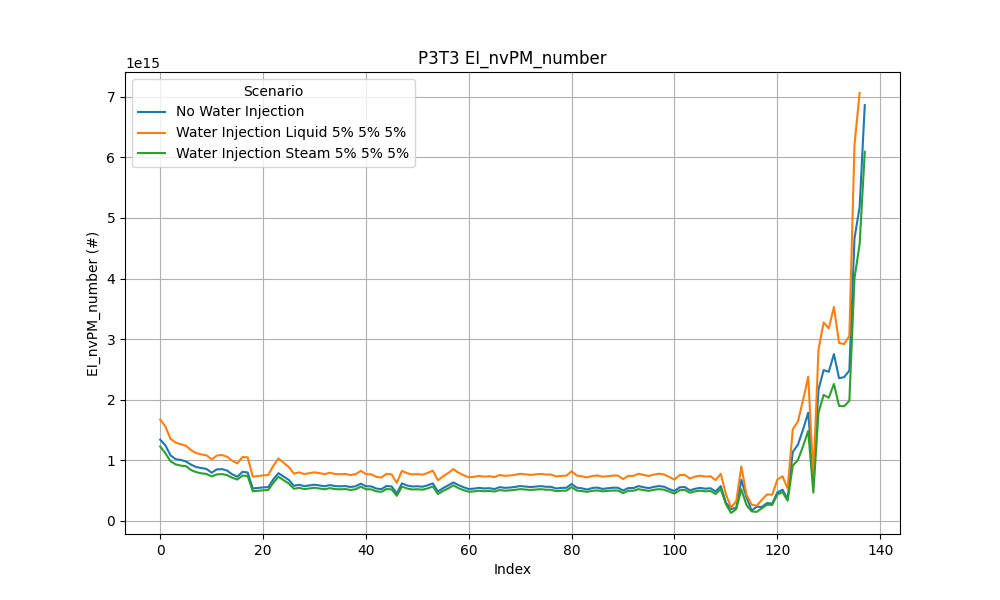
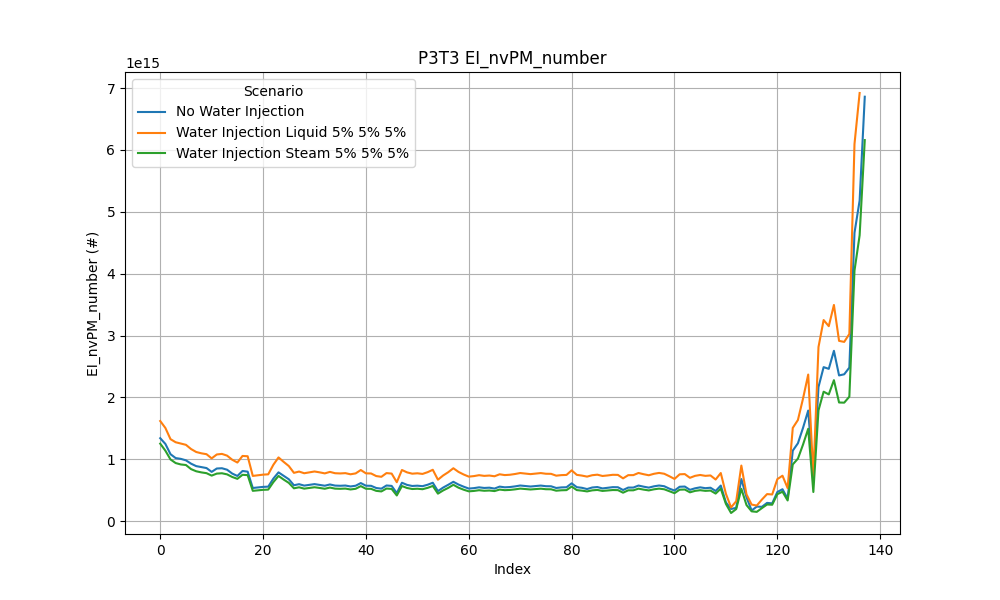
more result plots and add Xue nox correlation

diff --git a/verification_emissions.py b/verification_emissions.py
@@ -11,7 +11,7 @@ import matplotlib.colors as mcolors
 import scipy
 from emission_index import p3t3_nox, p3t3_nvpm, p3t3_nvpm_mass, meem_nvpm
 from emission_index import NOx_correlation_de_boer, NOx_correlation_kypriandis_optimized_tf, NOx_correlation_kaiser_optimized_tf
-from emission_index import p3t3_nvpm_meem, p3t3_nvpm_meem_mass
+from emission_index import p3t3_nvpm_meem, p3t3_nvpm_meem_mass, p3t3_nox_xue
 # from piano import altitude_ft_sla
 import sys
 import pickle
@@ -283,7 +283,7 @@ df['ei_co2_optimistic'] = ei_co2_optimistic
 
 if water_injection[0] != 0 or water_injection[1] != 0 or water_injection[2] != 0:
     df_water = pd.read_csv(f'results/{flight}/{flight}_model_GTF2035_SAF_{SAF}_aircraft_{aircraft}_WAR_0_0_0.csv')
-    df_water['W3_no_water_injection'] = df_water['W3']
+    df_water['W3_no_water_injection'] = df_water['W3_no_specific_humid']
     df['W3_no_water_injection'] = df_water['W3_no_water_injection']
     df['water_injection_kg_s'] = df['W3_no_water_injection'] * (df['WAR']/100 - df['specific_humidity'])
     df['water_injection_kg_s'] = df['water_injection_kg_s'].clip(lower=0) #no negative water injection if 0 WAR is present
@@ -376,9 +376,9 @@ df_gsp = pd.read_csv(input_csv_path)  # Load the original DataFrame
 df_gsp = df_gsp.merge(results_df, on='index', how='left')
 
 print(df_gsp)
-df_gsp['W3'] = df_gsp['W3'] / (1+df_gsp['specific_humidity']) #pure air, without water from ambience
+df_gsp['W3_no_specific_humid'] = df_gsp['W3'] / (1+df_gsp['specific_humidity']) #pure air, without water from ambience
 
-df_gsp['WAR_gsp'] = ((df_gsp['water_injection_kg_s'] + df_gsp['specific_humidity']*df_gsp['W3']) / df_gsp['W3'])*100 #%
+df_gsp['WAR_gsp'] = ((df_gsp['water_injection_kg_s'] + df_gsp['specific_humidity']*df_gsp['W3_no_specific_humid']) / df_gsp['W3_no_specific_humid'])*100 #%
 
 """NOx p3t3"""
 df_gsp['EI_nox_p3t3'] = df_gsp.apply(
@@ -389,6 +389,19 @@ df_gsp['EI_nox_p3t3'] = df_gsp.apply(
         interp_func_pt3,
         row['specific_humidity'],
         row['WAR_gsp']
+    ),
+    axis=1
+)
+"""NOx P3T3 Xue water injection"""
+df_gsp['EI_nox_p3t3_xue'] = df_gsp.apply(
+    lambda row: p3t3_nox_xue(
+        row['PT3'],
+        row['TT3'],
+        interp_func_far,
+        interp_func_pt3,
+        row['specific_humidity'],
+        row['water_injection_kg_s'],
+        row['W3']
     ),
     axis=1
 )

diff --git a/results_saf.py b/results_saf.py
@@ -9,14 +9,18 @@ engine_model = 'GTF'  # Replace with your engine model
 SAF_values = [0, 20, 100]  # List of SAF configurations
 nvPM_number_data = {}  # To store data for plotting
 nvPM_mass_data = {}
+fuel_flow_gsp_data = {}
+nox_p3t3_data = {}
 # Loop through SAF values and read corresponding files
 for SAF in SAF_values:
-    file_name = f'results/{flight}_model_{engine_model}_SAF_{SAF}.csv'
+    file_name = f'results/{flight}/{flight}_model_{engine_model}_SAF_{SAF}_aircraft_A20N_full_WAR_0_0_0.csv'
     try:
         # Read the CSV file
         df = pd.read_csv(file_name)
 
         # Extract the nvPM_p3t3_meem column and store it
+        fuel_flow_gsp_data[SAF] = df['fuel_flow_gsp']
+        nox_p3t3_data[SAF] = df['EI_nox_p3t3']
         nvPM_number_data[SAF] = df['EI_nvpm_number_p3t3_meem']
         nvPM_mass_data[SAF] = df['EI_nvpm_mass_p3t3_meem']
 
@@ -35,7 +39,7 @@ plt.ylabel("EI_nvpm_number")
 plt.title("P3T3-MEEM nvPM number for different SAF blends")
 plt.legend(title="SAF blends")
 plt.grid()
-plt.savefig(f'figures/{flight}/EI_nvpm_number_SAF.png', format='png')
+plt.savefig(f'figures/{flight}/saf_effect/EI_nvpm_number_SAF.png', format='png')
 
 plt.figure(figsize=(10, 6))
 for SAF, nvPM_mass in nvPM_mass_data.items():
@@ -46,4 +50,26 @@ plt.ylabel("EI_nvpm_mass")
 plt.title("P3T3-MEEM nvPM mass for different SAF blends")
 plt.legend(title="SAF blends")
 plt.grid()
-plt.savefig(f'figures/{flight}/EI_nvpm_mass_SAF.png', format='png')
+plt.savefig(f'figures/{flight}/saf_effect/EI_nvpm_mass_SAF.png', format='png')
+
+plt.figure(figsize=(10, 6))
+for SAF, fuel_flow in fuel_flow_gsp_data.items():
+    plt.plot(fuel_flow, label=f"SAF {SAF}%")
+
+plt.xlabel("Index")  # Or replace "Index" with a relevant x-axis label if needed
+plt.ylabel("Fuel flow [kg/s]")
+plt.title("Fuel flow for different SAF blends")
+plt.legend(title="SAF")
+plt.grid()
+plt.savefig(f'figures/{flight}/saf_effect/fuel_flow_saf.png', format='png')
+
+plt.figure(figsize=(10, 6))
+for SAF, nox in nox_p3t3_data.items():
+    plt.plot(nox, label=f"SAF {SAF}%")
+
+plt.xlabel("Index")  # Or replace "Index" with a relevant x-axis label if needed
+plt.ylabel("EI_NOx")
+plt.title("P3T3 EI_NOx for different SAF blends")
+plt.legend(title="SAF")
+plt.grid()
+plt.savefig(f'figures/{flight}/saf_effect/EI_nox_saf.png', format='png')

diff --git a/emission_index.py b/emission_index.py
@@ -35,6 +35,41 @@ def p3t3_nox(PT3_inflight, TT3_inflight, interp_func_far, interp_func_pt3, speci
 
     return result
 
+def p3t3_nox_xue(PT3_inflight, TT3_inflight, interp_func_far, interp_func_pt3, specific_humidity, W_injected, W3):
+    """
+    p3t3 method to predict ei_nox for the state of the art and 2035 PW1127G engine
+    can be used for both saf and kerosene, make sure to implement the correct interp_func
+
+    Args:
+        PT3_inflight (float): Inflight PT3 value.
+        TT3_inflight (float): Inflight TT3 value.
+        FAR_inflight (float): Inflight FAR value.
+        interp_func_far (function): Interpolation function far sls graph.
+        interp_func_pt3 (function): Interpolation function pt3 sls graph.
+
+    Returns:
+        float: EI_NOx at this point in flight
+    """
+
+    tolerance = 0.01  # 1% tolerance
+    far_sls = interp_func_far(TT3_inflight)
+    pt3_sls = interp_func_pt3(TT3_inflight)
+    if W_injected == 0:
+        print('no wi correction, just humidity')
+        # print(far_sls)
+        # print(pt3_sls)
+        # V2
+        ei_nox_sls = 0.8699*pt3_sls**0.0765*np.exp(0.0024*TT3_inflight)*2.01**(60*far_sls)
+        # print(ei_nox_sls)
+        result = ei_nox_sls*(PT3_inflight/pt3_sls)**0.3*np.exp(19*(0.006344-specific_humidity))
+    elif W_injected != 0:
+        war = W_injected / (W_injected + W3)
+        ei_nox_sls = 0.8699 * pt3_sls ** 0.0765 * np.exp(0.0024 * TT3_inflight) * 2.01 ** (60 * far_sls)
+        relative_nox = 1e-6 * war**6 - 6e-5 * war**5 + 1.2e-3 * war**4 - 1.26e-2 * war**3 + 7.7e-2 * war**2 - 0.3337 * war + 1
+        result = ei_nox_sls * (PT3_inflight / pt3_sls) ** 0.3 * np.exp(19*(0.006344-specific_humidity)) * relative_nox
+
+    return result
+
 def p3t3_nox_wi(PT3_inflight, TT3_inflight, interp_func_far, interp_func_pt3, war):
     """
     p3t3 method to predict ei_nox for the state of the art and 2035 PW1127G engine

diff --git a/results_future.py b/results_future.py
@@ -13,7 +13,7 @@ nvPM_number_data = {}  # To store data for plotting
 nvPM_mass_data = {}
 # Loop through SAF values and read corresponding files
 for engine in engine_model:
-    file_name = f'results/{flight}_model_{engine}_SAF_{SAF}.csv'
+    file_name = f'results/{flight}/{flight}_model_{engine}_SAF_0_aircraft_A20N_full_WAR_0_0_0.csv'
     try:
         # Read the CSV file
         df = pd.read_csv(file_name)
@@ -39,7 +39,7 @@ plt.ylabel("Fuel flow [kg/s]")
 plt.title("Fuel flow for different engines")
 plt.legend(title="Engine")
 plt.grid()
-plt.savefig(f'figures/{flight}/EI_fuel_flow_engines.png', format='png')
+plt.savefig(f'figures/{flight}/future_engines/EI_fuel_flow_engines.png', format='png')
 
 plt.figure(figsize=(10, 6))
 for engine, nox in nox_p3t3_data.items():
@@ -50,7 +50,7 @@ plt.ylabel("EI_NOx")
 plt.title("P3T3 EI_NOx for different engines")
 plt.legend(title="Engine")
 plt.grid()
-plt.savefig(f'figures/{flight}/EI_nox_engines.png', format='png')
+plt.savefig(f'figures/{flight}/future_engines/EI_nox_engines.png', format='png')
 
 plt.figure(figsize=(10, 6))
 for engine, nvPM_number in nvPM_number_data.items():
@@ -61,7 +61,7 @@ plt.ylabel("EI_nvpm_number")
 plt.title("P3T3-MEEM EI_nvPM_number for different engines")
 plt.legend(title="Engine")
 plt.grid()
-plt.savefig(f'figures/{flight}/EI_nvpm_number_engines.png', format='png')
+plt.savefig(f'figures/{flight}/future_engines/EI_nvpm_number_engines.png', format='png')
 
 plt.figure(figsize=(10, 6))
 for engine, nvPM_mass in nvPM_mass_data.items():
@@ -72,4 +72,4 @@ plt.ylabel("EI_nvpm_mass")
 plt.title("P3T3-MEEM EI_nvPM_mass for different engines")
 plt.legend(title="Engine")
 plt.grid()
-plt.savefig(f'figures/{flight}/EI_nvpm_mass_engines.png', format='png')
+plt.savefig(f'figures/{flight}/future_engines/EI_nvpm_mass_engines.png', format='png')

diff --git a/results_wi_nox_predictions.py b/results_wi_nox_predictions.py
@@ -1,0 +1,33 @@
+import pandas as pd
+import matplotlib.pyplot as plt
+from emission_index import p3t3_nox_xue
+import pickle
+with open('p3t3_graphs_sls.pkl', 'rb') as f:
+    loaded_functions = pickle.load(f)
+
+interp_func_far = loaded_functions['interp_func_far']
+interp_func_pt3 = loaded_functions['interp_func_pt3']
+
+# Parameters
+flight = 'malaga' # Replace with your flight identifier
+engine = 'GTF2035'  # Replace with your engine model
+
+file_name = f'results/{flight}/{flight}_model_{engine}_SAF_0_aircraft_A20N_full_WAR_5_5_5.csv'
+
+df_gsp = pd.read_csv(file_name)
+
+# Plot A: EI_NOx
+plt.figure(figsize=(10, 6))
+plt.plot(df_gsp.index, df_gsp['EI_nox_py'], label='Pycontrails', linestyle='-', marker='o', markersize=2.5)
+plt.plot(df_gsp.index, df_gsp['EI_nox_p3t3'], label='P3T3', linestyle='-', marker='o', markersize=2.5)
+plt.plot(df_gsp.index, df_gsp['EI_nox_p3t3_xue'], label='P3T3', linestyle='-', marker='o', markersize=2.5)
+# plt.plot(df_gsp.index, df_gsp['EI_nox_boer'], label='Boer', linestyle='-', marker='o', markersize=2.5)
+plt.plot(df_gsp.index, df_gsp['EI_nox_kaiser'], label='Kaiser', linestyle='-', marker='o', markersize=2.5)
+plt.plot(df_gsp.index, df_gsp['EI_nox_kypriandis'], label='Kypriandis', linestyle='-', marker='o', markersize=2.5)
+
+plt.title('EI_NOx predictions Steam Injection 5% during entire flight')
+plt.xlabel('Time in minutes')
+plt.ylabel('EI_NOx (g/ kg Fuel)')
+plt.legend()
+plt.grid(True)
+plt.savefig(f'figures/{flight}/water_injection/ei_nox_correlations.png', format='png')

diff --git a/water_injection_effect.py b/water_injection_effect.py
@@ -216,7 +216,7 @@ df['ei_co2_conservative'] = ei_co2_conservative
 df['ei_co2_optimistic'] = ei_co2_optimistic
 
 df_water = pd.read_csv(f'results/{flight}/{flight}_model_GTF2035_SAF_{SAF}_aircraft_{aircraft}_WAR_0_0_0.csv')
-df_water['W3_no_water_injection'] = df_water['W3']
+df_water['W3_no_water_injection'] = df_water['W3_no_specific_humid']
 df['W3_no_water_injection'] = df_water['W3_no_water_injection']
 
 df_tsfc_2020 = pd.read_csv(f'results/{flight}/{flight}_model_GTF_SAF_{SAF}_aircraft_{aircraft}_WAR_0_0_0.csv')
@@ -376,10 +376,10 @@ for i, (_, point_row) in enumerate(selected_points.iterrows()):
     point_results_df = pd.read_csv(point_input_path)
 
     point_results_df = point_results_df.merge(results_df, on='index', how='left')
-    point_results_df['W3'] = point_results_df['W3'] / (1 + point_results_df['specific_humidity'])
+    point_results_df['W3_no_specific_humid'] = point_results_df['W3'] / (1 + point_results_df['specific_humidity'])
 
-    point_results_df['WAR_gsp'] = ((point_results_df['water_injection_kg_s'] + point_results_df['specific_humidity'] * point_results_df['W3']) / point_results_df[
-        'W3']) * 100
+    point_results_df['WAR_gsp'] = ((point_results_df['water_injection_kg_s'] + point_results_df['specific_humidity'] * point_results_df['W3_no_specific_humid']) / point_results_df[
+        'W3_no_specific_humid']) * 100
 
     point_results_df['EI_nox_p3t3_wi'] = point_results_df.apply(
         lambda row: p3t3_nox_wi(
